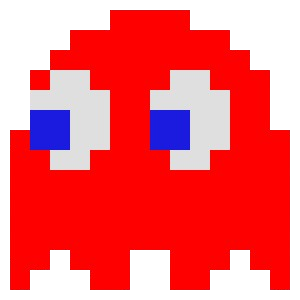
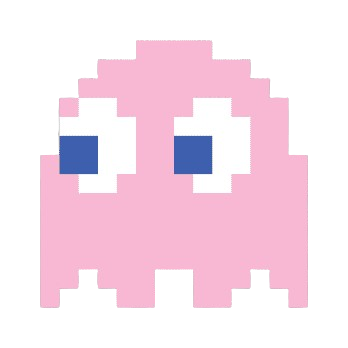
ghost switches when powerUp active

diff --git a/scripts.js b/scripts.js
@@ -4,7 +4,8 @@ const buttonDown = document.getElementById('down');
 const buttonLeft = document.getElementById('left');
 const buttonRight = document.getElementById('right');
 const scoreText = document.getElementById('score');
-var score = 0
+var score = 0;
+
 
 let totalCoins = 38;
 let gameData = [
@@ -109,6 +110,11 @@ function drawMap() {
   // for every tile in tiles
   for (let tile of tiles) {
     // add the tile to the map
+    if (tile.classList.contains('ghost')) {
+      if (powerActive) {
+        tile.classList.add('weakGhost'); // 👈 add class here based on state
+      }
+    }
     map.append(tile)
   }
 
@@ -154,6 +160,7 @@ function randomDirection(lastMove) {
 function gameLoop() {
   console.log(powerActive);
   console.log(score);
+    // ghosts should become blue
 
   // if (gameOver()) {
   //   // alert("game Over");
@@ -177,16 +184,12 @@ function gameLoop() {
   if (ghostMove == 0) {
     // if its a 
     ghostUp();
-    console.log('ghost up');
   } else if (ghostMove == 1) {
     ghostDown();
-    console.log('ghost down');
   } else if (ghostMove == 2) {
     ghostLeft();
-    console.log('ghost left');
   } else if (ghostMove == 3) {
     ghostRight()
-    console.log('ghost right');
   }
 
   eraseMap();
@@ -211,7 +214,6 @@ function moveDown() {
       totalCoins -= 1;
       score += 1;
       scoreText.textContent = score;
-      console.log(totalCoins);
     }
     else if (gameData[pacman.y+1][pacman.x] === GROUND || (gameData[pacman.y+1][pacman.x] === GHOST && powerActive)) {
       gameData[pacman.y][pacman.x] = GROUND;
@@ -254,7 +256,6 @@ function moveUp() {
       totalCoins -= 1;
       score += 1;
       scoreText.textContent = score;
-      console.log(totalCoins);
     }
     else if (gameData[pacman.y-1][pacman.x] === GROUND || (gameData[pacman.y-1][pacman.x] === GHOST && powerActive)) {
       gameData[pacman.y][pacman.x] = GROUND;
@@ -298,7 +299,6 @@ function moveLeft() {
       totalCoins -= 1;
       score += 1;
       scoreText.textContent = score;
-      console.log(totalCoins);
     }
     else if (gameData[pacman.y][pacman.x-1] === GROUND || (gameData[pacman.y][pacman.x-1] === GHOST && powerActive)) {
       gameData[pacman.y][pacman.x] = GROUND;
@@ -341,7 +341,6 @@ function moveRight() {
       totalCoins -= 1;
       score += 1;
       scoreText.textContent = score;
-      console.log(totalCoins);
     }
     else if (gameData[pacman.y][pacman.x+1] === GROUND || (gameData[pacman.y][pacman.x+1] === GHOST && powerActive)) {
       gameData[pacman.y][pacman.x] = GROUND;

diff --git a/index.html b/index.html
@@ -16,13 +16,15 @@
   <div id="controls">
     <button id='up' class="control-btn" 
       onclick="moveUp(); eraseMap(); drawMap();">⬆</button><br>
-    <button id='left' class="control-btn" 
-      onclick="moveLeft(); eraseMap(); drawMap();">⬅</button>
+    <div class="middle-row">
+      <button id='left' class="control-btn" 
+        onclick="moveLeft(); eraseMap(); drawMap();">⬅</button>
+      <div class="coin"></div>
+      <button id = 'right' class="control-btn" 
+        onclick="moveRight(); eraseMap(); drawMap();">➡</button>
+    </div>
     <button id = 'down' class="control-btn" 
-      onclick="moveDown(); eraseMap(); drawMap();">⬇</button>
-    <button id = 'right' class="control-btn" 
-      onclick="moveRight(); eraseMap(); drawMap();">➡</button>
-  </div>
+    onclick="moveDown(); eraseMap(); drawMap();">⬇</button>
   </div>
   <script src="scripts.js"></script>
 </body>

diff --git a/styles.css b/styles.css
@@ -70,7 +70,6 @@ h1 {
   height: 3vh;
   display: inline-block; /*so blocks are next to each other*/
   vertical-align: top;
-
 }
 
 
@@ -135,6 +134,13 @@ h1 {
   background-position: center;
 }
 
+.weakGhost {
+  background-image: url('/images/weakGhost.png');  
+  background-size: contain;
+  background-repeat: no-repeat;
+  background-position: center;
+}
+
 
 /* TOUCH BUTTONS */
 .game-container {
@@ -167,6 +173,13 @@ h1 {
 
 .control-btn:active {
   background-color: #34003D;
+}
+
+.middle-row {
+  display: flex;
+  align-items: center;
+  justify-content: center;
+  gap: 15px;
 }
 
 @media (min-width: 992px){
